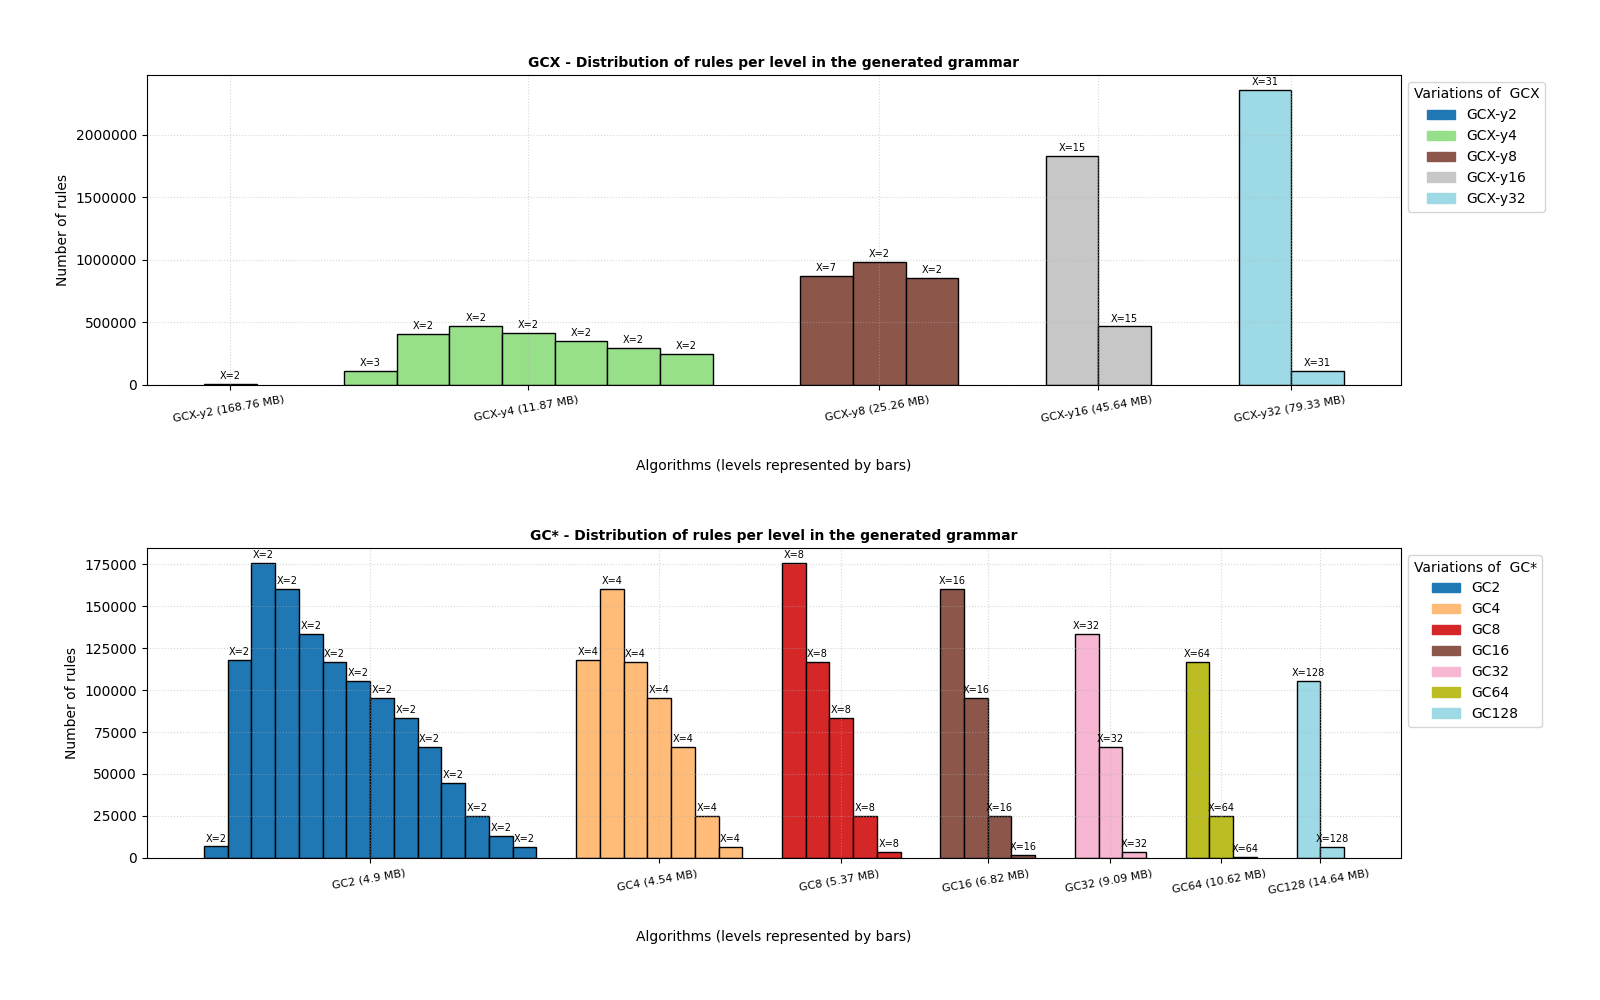
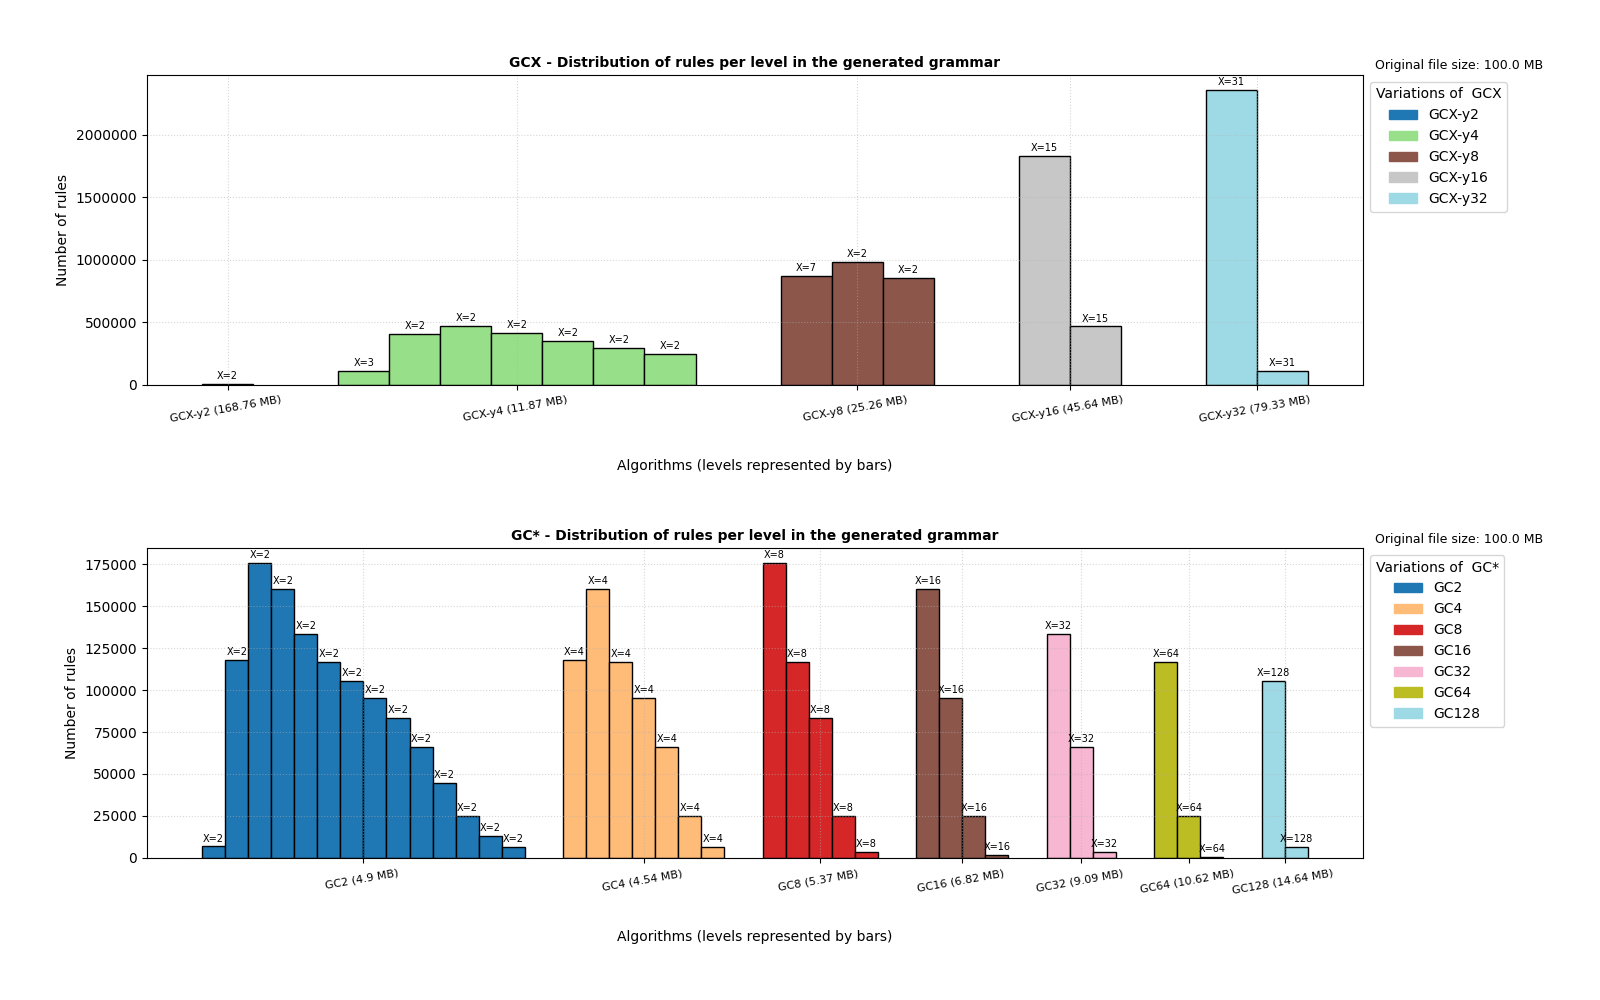
adiciona tamanho do arquivo original

diff --git a/scripts/graphs/plotting.py b/scripts/graphs/plotting.py
@@ -151,7 +151,7 @@ def plot_grammar(df, ax, algorithms, color_map, bar_width=0.9, bar_spacing=1.5):
         xticks.append(current_x + (num_levels -1) * bar_width / 2)
         xtick_labels.append(f"{alg} ({row['compressed_size']} MB) ")
         current_x += num_levels * bar_width + bar_spacing # posição da primeira barra do próximo algoritmo
-    
+        
     bars = ax.bar(positions, heights, width= bar_width, color=colors, edgecolor= 'black', linewidth=1)
 
     # adiciona o tamanho da regra usada em cada nível (barra)
@@ -186,9 +186,25 @@ def generate_grammar_chart(results, information, output_dir):
         ax.set_xlabel(information['x_label'], labelpad=25)
         ax.ticklabel_format(style='plain', axis='y')
         ax.grid(linestyle=':', alpha=0.5)
+        
 
         handles = [plt.Rectangle((0, 0), 1, 1, color=color_map[alg]) for alg in algorithms]
-        ax.legend(handles, algorithms, title=f"{information['legend']} {grammar_groups_names[i]}", loc='upper left', bbox_to_anchor=(1, 1))
+        ax.legend(
+            handles,
+            algorithms,
+            title=f"{information['legend']} {grammar_groups_names[i]}",
+            loc='upper left',
+            bbox_to_anchor=(1, 1)
+        )
+
+        # adiciona o tamanho do arquivo em texto plano abaixo da legenda
+        ax.text(
+            1.01, 1.05,
+            f"{information['plain_size']}: {results.iloc[0]['plain_size']} MB",
+            transform=ax.transAxes,
+            fontsize=9,
+            va='top'
+        )
 
     plt.tight_layout(pad=4.0)
 

diff --git a/scripts/graphs/report.py b/scripts/graphs/report.py
@@ -25,7 +25,8 @@ def generate_grammar_chart(df_list, output_dir, language):
     for df in df_list:
         print(f"\n## FILE: {df.index[0]}")
         df['compressed_size'] = df['compressed_size'].apply(lambda x: round(ut.bytes_to_mb(x),2))
-
+        df['plain_size'] = df['plain_size'].apply(lambda x: round(ut.bytes_to_mb(x),2))
+    
         plt.generate_grammar_chart(df, language.GRAMMAR, output_dir)
 
 def generate_extract_chart(df_list, output_dir, language):

diff --git a/scripts/graphs/pt.py b/scripts/graphs/pt.py
@@ -74,5 +74,6 @@ GRAMMAR = {
     "y_label": "Quantidade de regras",
     "title": "Distribuição de regras por nível na gramática gerada",
     "output_file": "grammar_info",
-    "legend": "Variações de "
+    "legend": "Variações de ",
+    "plain_size": "Tamanho do arquivo original",
 }

diff --git a/scripts/graphs/en.py b/scripts/graphs/en.py
@@ -74,5 +74,6 @@ GRAMMAR = {
     "y_label": "Number of rules",
     "title": "Distribution of rules per level in the generated grammar",
     "output_file": "grammar_info",
-    "legend": "Variations of "
+    "legend": "Variations of ",
+    "plain_size": "Original file size",
 }
